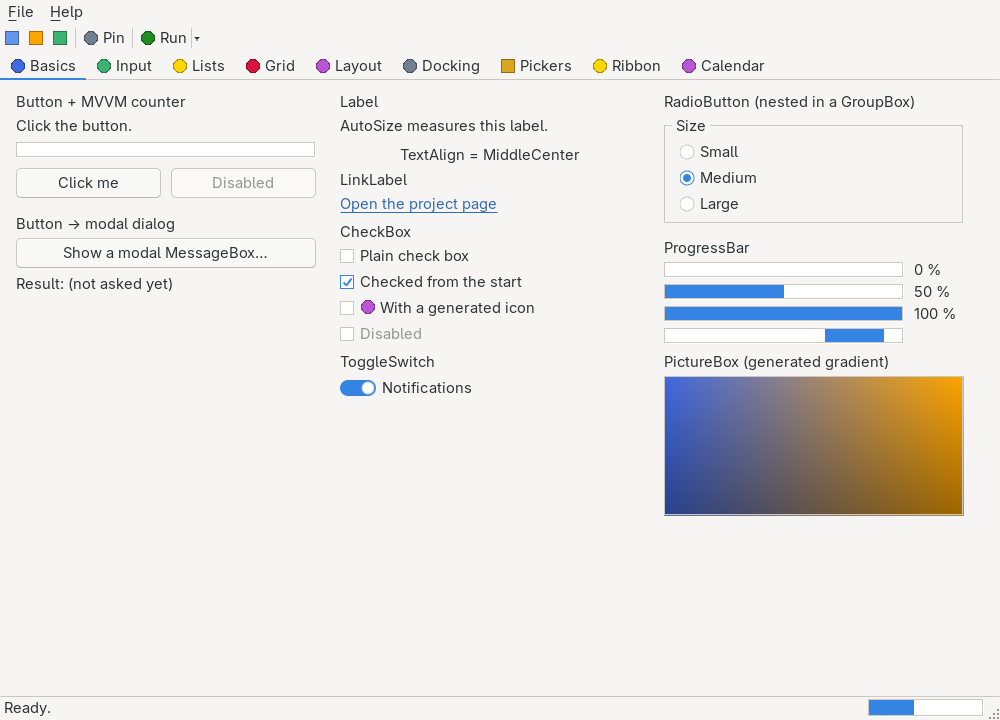
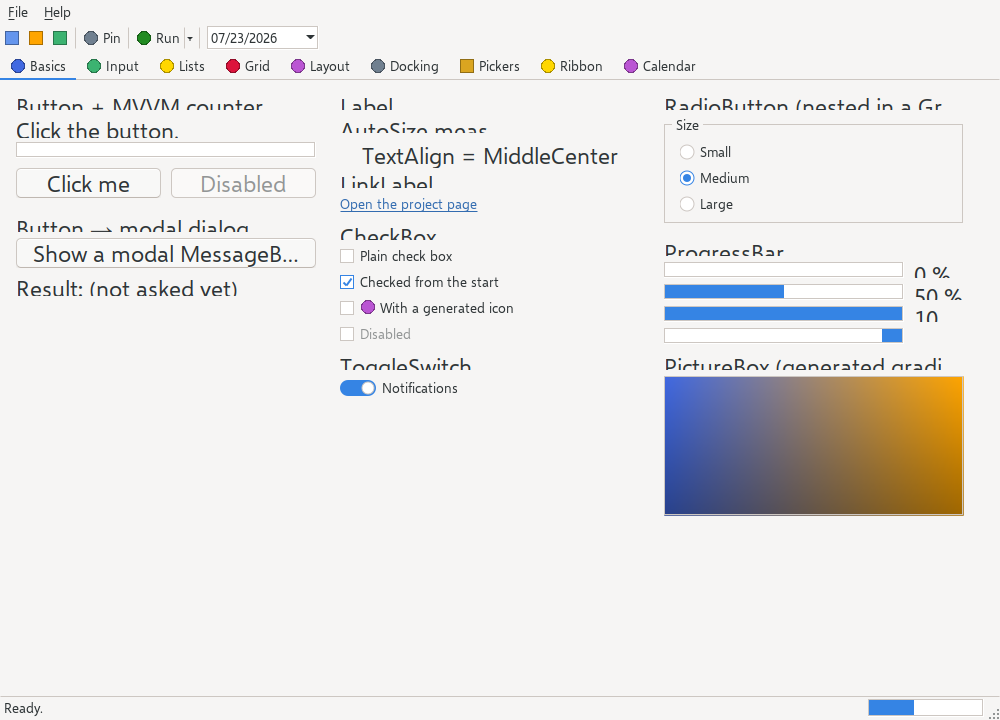
+ ToolStripControlHost: toolbars host a real Control (combo/date/time/checkbox pickers) (docs/PRD.md §7.6)

diff --git a/NativeForms.Core/Controls/ToolStrip.cs b/NativeForms.Core/Controls/ToolStrip.cs
@@ -47,6 +47,7 @@ public class ToolStrip : OwnerDrawnControl
         this.Items.Changed += (_, _) =>
         {
             _itemWidths = null;
+            this.SyncHostedControls();
             this.Invalidate();
         };
     }
@@ -61,6 +62,63 @@ public class ToolStrip : OwnerDrawnControl
     {
         base.OnRealized(peer);
         _itemWidths = null; // measurements now come from the live backend
+        this.SyncHostedControls();
+    }
+
+    /// <summary>Parents any hosted control that is not yet a child of this bar into it.</summary>
+    private void SyncHostedControls()
+    {
+        for (var i = 0; i < this.Items.Count; ++i)
+            if (this.Items[i] is ToolStripControlHost host && !ReferenceEquals(host.Control.Parent, this))
+                this.Controls.Add(host.Control);
+    }
+
+    /// <summary>The host item a child control belongs to, or <see langword="null"/> when the control
+    /// was parented some other way.</summary>
+    private ToolStripControlHost? FindHost(Control child)
+    {
+        for (var i = 0; i < this.Items.Count; ++i)
+            if (this.Items[i] is ToolStripControlHost host && ReferenceEquals(host.Control, child))
+                return host;
+
+        return null;
+    }
+
+    /// <summary>A hosted control is on screen only where the layout placed it — not while its item is
+    /// in the overflow — combined with its own visibility flag.</summary>
+    private protected override bool GetChildPeerVisible(Control child)
+        => this.FindHost(child) is { } host ? host.Placed && child.IsVisibleLocal : child.IsVisibleLocal;
+
+    /// <summary>Positions each hosted control in its item slot and vetoes the peer of any host pushed
+    /// into the overflow, pushing the veto only when a host's placement actually flips.</summary>
+    private void PlaceHostedControls()
+    {
+        var firstOverflow = this.FirstOverflowIndex();
+        var x = 0;
+        for (var i = 0; i < this.Items.Count; ++i)
+        {
+            var item = this.Items[i];
+            var visible = item.Visible;
+            if (item is ToolStripControlHost host)
+            {
+                var placed = visible && i < firstOverflow;
+                if (placed)
+                    host.Control.Bounds = new Rectangle(
+                        x + ButtonPadding,
+                        2,
+                        Math.Max(0, this.ItemWidth(i, item) - (2 * ButtonPadding)),
+                        Math.Max(0, this.Height - 4));
+
+                if (host.Placed != placed)
+                {
+                    host.Placed = placed;
+                    host.Control.PushPeerVisibleTree();
+                }
+            }
+
+            if (visible && i < firstOverflow)
+                x += this.ItemWidth(i, item);
+        }
     }
 
     private protected override void OnUnrealized()
@@ -90,6 +148,7 @@ public class ToolStrip : OwnerDrawnControl
         var theme = this.Theme;
         var height = this.Height;
         g.FillRectangle(theme.ControlBackground, new(0, 0, this.Width, height));
+        this.PlaceHostedControls();
 
         var firstOverflow = this.FirstOverflowIndex();
         var x = 0;
@@ -190,6 +249,9 @@ public class ToolStrip : OwnerDrawnControl
     private void PaintItem(IGraphics g, ToolStripItem item, int index, Rectangle bounds)
     {
         var theme = this.Theme;
+        if (item is ToolStripControlHost)
+            return; // the hosted control paints itself through its own peer
+
         if (item is ToolStripSeparator)
         {
             var mid = bounds.X + (bounds.Width / 2);
@@ -342,6 +404,9 @@ public class ToolStrip : OwnerDrawnControl
     /// <summary>Measures one item: padding, icon, caption and arrow zone as applicable.</summary>
     private int MeasureItemWidth(ToolStripItem item)
     {
+        if (item is ToolStripControlHost host)
+            return host.HostWidth;
+
         if (item is ToolStripSeparator)
             return SeparatorWidth;
 

diff --git a/NativeForms.Core/Controls/ToolStripControlHost.cs b/NativeForms.Core/Controls/ToolStripControlHost.cs
@@ -1,0 +1,43 @@
+namespace Hawkynt.NativeForms;
+
+/// <summary>
+/// A toolbar item that hosts a real <see cref="Control"/> — a combo box, a date/time picker, a colour
+/// button, a check box — among the buttons, the toolbar counterpart of WinForms
+/// <c>ToolStripControlHost</c>. The <see cref="ToolStrip"/> parents the control into its own
+/// <see cref="Control.Controls"/>, positions it from the item layout, and hides its peer while the
+/// item is pushed into the overflow.
+/// </summary>
+public class ToolStripControlHost : ToolStripItem
+{
+    /// <summary>Creates a host item for the given control.</summary>
+    /// <exception cref="ArgumentNullException"><paramref name="control"/> is null.</exception>
+    public ToolStripControlHost(Control control)
+    {
+        ArgumentNullException.ThrowIfNull(control);
+        this.Control = control;
+    }
+
+    /// <summary>The hosted control.</summary>
+    public Control Control { get; }
+
+    /// <summary>The pixel width the toolbar reserves for the item, its inner padding included.</summary>
+    public int HostWidth
+    {
+        get => field;
+        set
+        {
+            if (field == value)
+                return;
+
+            field = value;
+            this.NotifyOwner();
+        }
+    } = 120;
+
+    /// <summary>
+    /// Whether the last layout pass placed the control on screen. The toolbar's child-peer veto reads
+    /// it, so a hosted control pushed into the overflow keeps its own <see cref="Control.Visible"/>
+    /// flag while its peer stays hidden.
+    /// </summary>
+    internal bool Placed { get; set; }
+}

diff --git a/NativeForms.Tests/ToolStripTests.cs b/NativeForms.Tests/ToolStripTests.cs
@@ -253,4 +253,35 @@ internal sealed class ToolStripTests
         canvas.RaiseMouseUp(35, 10);
         Assert.That(clicks, Is.EqualTo(new[] { "second", "first" }), "the refreshed width routes x=35 to the first button");
     }
+
+    [Test]
+    public void A_hosted_control_is_parented_and_positioned_in_its_slot()
+    {
+        var combo = new ComboBox();
+        var strip = CreateStrip(out var canvas, out _, width: 300);
+        strip.Items.Add(new ToolStripControlHost(combo) { HostWidth = 120 });
+
+        canvas.RaisePaint(); // placement runs in the paint pass
+
+        Assert.Multiple(() =>
+        {
+            Assert.That(combo.Parent, Is.SameAs(strip), "the bar adopts the hosted control");
+            Assert.That(combo.Bounds.X, Is.EqualTo(4), "inset by the button padding");
+            Assert.That(combo.Bounds.Width, Is.EqualTo(112), "HostWidth minus the padding on both sides");
+            Assert.That(combo.Visible, Is.True);
+        });
+    }
+
+    [Test]
+    public void An_overflowed_hosted_control_is_hidden()
+    {
+        var combo = new ComboBox();
+        var strip = CreateStrip(out var canvas, out _, width: 60);
+        strip.Items.Add(new ToolStripButton("A"));
+        strip.Items.Add(new ToolStripControlHost(combo) { HostWidth = 120 }); // cannot fit → overflow
+
+        canvas.RaisePaint();
+
+        Assert.That(combo.Visible, Is.False, "a host pushed into the overflow hides its control");
+    }
 }

diff --git a/NativeForms.Demo/MainForm.cs b/NativeForms.Demo/MainForm.cs
@@ -286,7 +286,15 @@ internal sealed partial class MainForm : Form
         run.DropDownItems.Add(runTests);
         run.DropDownItems.Add(runProfiled);
 
-        strip.Items.AddRange(newButton, openButton, saveButton, new ToolStripSeparator(), pin, new ToolStripSeparator(), run);
+        // A real control hosted in the toolbar (ToolStripControlHost), the toolbar counterpart of the
+        // ribbon's RibbonHostItem: date/time pickers, combo boxes and the like drop straight in.
+        var toolDate = new DateTimePicker { Format = DateTimePickerFormat.Short };
+        toolDate.ValueChanged += (_, _) => this.SetStatus($"Toolbar: date set to {toolDate.Value:d}.");
+
+        strip.Items.AddRange(
+            newButton, openButton, saveButton, new ToolStripSeparator(),
+            pin, new ToolStripSeparator(), run, new ToolStripSeparator(),
+            new ToolStripControlHost(toolDate) { HostWidth = 120 });
 
         var pinChecked = pin.Checked;
         this.OnReset(() => pin.Checked = pinChecked);

diff --git a/docs/controls/toolstrip.md b/docs/controls/toolstrip.md
@@ -64,6 +64,20 @@ the `DropDownItems` drop-down. Constructors: `ToolStripSplitButton()`,
 
 A vertical dividing line, 7 px wide. Takes no clicks and no hover.
 
+### ToolStripControlHost
+
+Hosts a real `Control` — a `ComboBox`, `DateTimePicker`, `TimePicker`, `CheckBox`, a colour button —
+among the buttons, the toolbar counterpart of WinForms `ToolStripControlHost` (and of the ribbon's
+`RibbonHostItem`). The bar parents the control into its own `Controls`, positions it in the item's
+slot (inset by the button padding, filling the bar height) and hides its peer while the item is pushed
+into the overflow. `HostWidth` (default 120) reserves the slot; constructor
+`ToolStripControlHost(Control)`.
+
+```csharp
+var zoom = new ComboBox { /* … */ };
+strip.Items.Add(new ToolStripControlHost(zoom) { HostWidth = 90 });
+```
+
 ## Notes
 
 - **Click contract.** A press arms the item and paints the pressed fill; the click commits on mouse

diff --git a/docs/PRD.md b/docs/PRD.md
@@ -499,8 +499,10 @@ strategy (may differ per platform; note exceptions inline).
   - [x] `ICommand` wiring (auto enable/disable via `CanExecute`)
 - [~] `ContextMenuStrip` — `Control.ContextMenuStrip` + right-click at the cursor on
       owner-drawn controls; native-widget controls pending (peer right-click events)
-- [x] `ToolStrip` (owner) — icon+text buttons, toggles, separators,
-      `ToolStripDropDownButton`/`ToolStripSplitButton`, overflow chevron popup, `ImageList`
+- [x] `ToolStrip` (owner) — icon+text buttons, toggles (`CheckOnClick`), separators,
+      `ToolStripDropDownButton`/`ToolStripSplitButton` (checkboxes + icons in their drop-downs via
+      `ToolStripMenuItem`), `ToolStripControlHost` hosting a real `Control` (combo/date/time/colour
+      pickers), overflow chevron popup, `ImageList`
 - [x] `StatusStrip` — `ToolStripStatusLabel` (incl. `Spring`), embedded progress item (shared
       renderer), size grip
 - [~] `ToolTip` — owner-drawn controls with Initial/AutoPop delays via `Timer` + popup done;